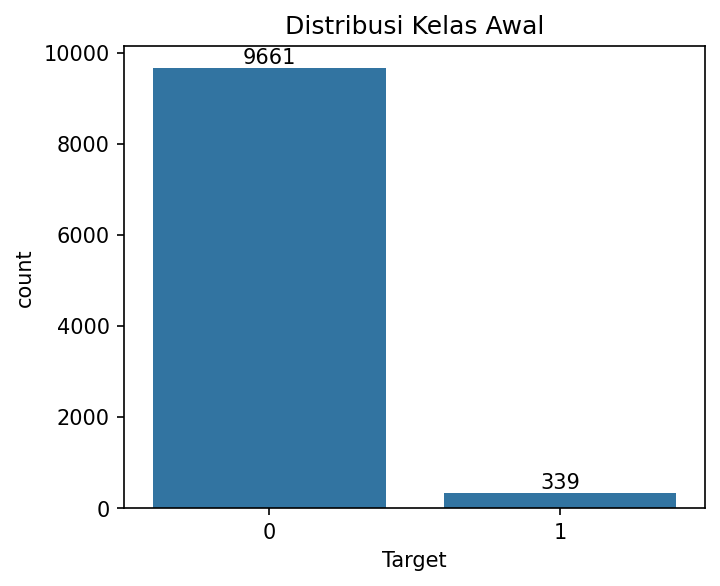
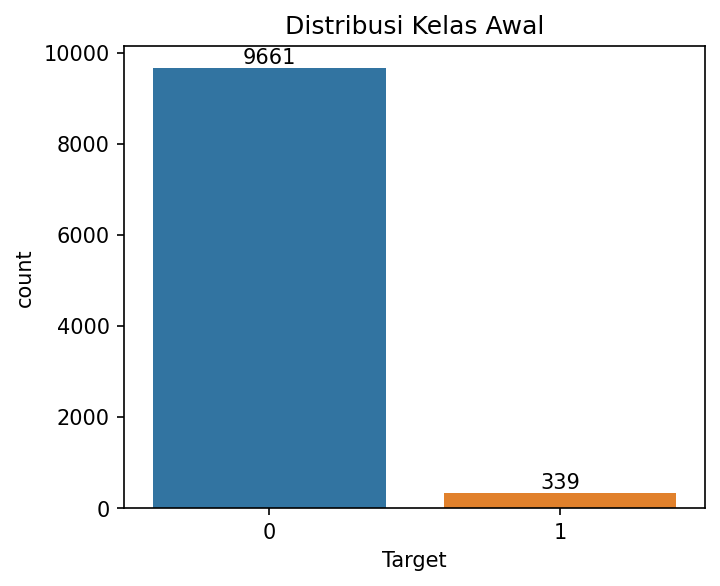
menambahkan oversampling dan evaliasi model

Changed region(s): [[0.6111, 0.8294, 0.9472, 0.8908]]

diff --git a/src/oversampling.py b/src/oversampling.py
@@ -1,0 +1,86 @@
+import pandas as pd
+import matplotlib.pyplot as plt
+import seaborn as sns
+from sklearn.tree import DecisionTreeClassifier
+from sklearn.metrics import (confusion_matrix, ConfusionMatrixDisplay,
+                             accuracy_score, precision_score,
+                             recall_score, f1_score, classification_report)
+# Menggunakan BorderlineSMOTE agar unik dibandingkan SMOTE biasa
+from imblearn.over_sampling import BorderlineSMOTE
+
+def jalankan_eksperimen_oversampling():
+    print("\n" + "=" * 60)
+    print("EKSPERIMEN OVERSAMPLING")
+    print("=" * 60)
+
+    # 1. Load Baseline Data
+    # Mengambil data dari folder output/baseline/ yang sudah disiapkan
+    print("Membaca data baseline training dan testing...")
+    X_train = pd.read_csv("output/baseline/X_train.csv")
+    y_train = pd.read_csv("output/baseline/y_train.csv").squeeze() # squeeze untuk ubah ke Series
+    X_test = pd.read_csv("output/baseline/X_test.csv")
+    y_test = pd.read_csv("output/baseline/y_test.csv").squeeze()
+
+    # 2. Cek Distribusi Kelas Sebelum Resampling
+    print("\nDistribusi kelas Target (Sebelum Oversampling):")
+    print(y_train.value_counts())
+
+    # 3. Terapkan Metode Oversampling
+    # Menggunakan BorderlineSMOTE dengan sampling_strategy=0.5 (minoritas jadi 50% dari mayoritas)
+    print("\nMenerapkan BorderlineSMOTE pada data training...")
+    smote = BorderlineSMOTE(sampling_strategy=0.5, random_state=42)
+    X_train_res, y_train_res = smote.fit_resample(X_train, y_train)
+
+    # 4. Cek Distribusi Kelas Sesudah Resampling
+    print("\nDistribusi kelas Target (Sesudah Oversampling):")
+    print(y_train_res.value_counts())
+
+    # Visualisasi perbandingan distribusi
+    fig, ax = plt.subplots(1, 2, figsize=(10, 4))
+    sns.countplot(x=y_train, ax=ax[0], palette="muted")
+    ax[0].set_title("Sebelum Oversampling")
+    sns.countplot(x=y_train_res, ax=ax[1], palette="muted")
+    ax[1].set_title("Sesudah BorderlineSMOTE")
+    plt.tight_layout()
+    plt.savefig("output/figures/distribusi_oversampling.png", dpi=150)
+    print("-> Grafik distribusi disimpan di output/figures/distribusi_oversampling.png")
+    plt.close()
+
+    # 5. Training Decision Tree
+    # Menggunakan criterion="entropy" sebagai variasi model agar unik
+    print("\nMelatih model Decision Tree dengan data hasil oversampling...")
+    dt = DecisionTreeClassifier(criterion="entropy", random_state=42)
+    dt.fit(X_train_res, y_train_res)
+
+    # 6. Testing dan Evaluasi Model
+    print("\nMelakukan prediksi pada data testing dan evaluasi...")
+    y_pred = dt.predict(X_test)
+
+    # Menghitung 4 Metrik
+    acc = accuracy_score(y_test, y_pred)
+    prec = precision_score(y_test, y_pred)
+    rec = recall_score(y_test, y_pred)
+    f1 = f1_score(y_test, y_pred)
+
+    print(f"Akurasi  : {acc:.4f}")
+    print(f"Presisi  : {prec:.4f}")
+    print(f"Recall   : {rec:.4f}")
+    print(f"F1-Score : {f1:.4f}")
+    
+    print("\nClassification Report:")
+    print(classification_report(y_test, y_pred, target_names=["Normal (0)", "Gagal (1)"]))
+
+    # 7. Membuat dan Menyimpan Confusion Matrix
+    cm = confusion_matrix(y_test, y_pred)
+    disp = ConfusionMatrixDisplay(confusion_matrix=cm, display_labels=["Normal", "Gagal"])
+    disp.plot(cmap="Blues", colorbar=False)
+    plt.title("Confusion Matrix - Oversampling")
+    plt.tight_layout()
+    plt.savefig("output/figures/confusion_matrix.png", dpi=150)
+    print("-> Grafik confusion matrix disimpan di output/figures/confusion_matrix.png")
+    plt.close()
+
+    print("\nEksperimen Oversampling Selesai!\n")
+
+if __name__ == "__main__":
+    jalankan_eksperimen_oversampling()

diff --git a/main.py b/main.py
@@ -2,6 +2,7 @@
 import argparse
 
 from src import init_dataset, preprocessing, transformation, split_data
+from src.oversampling import jalankan_eksperimen_oversampling
 from src.utils import quiet
 
 
@@ -83,6 +84,8 @@ def main(stage: str = "all") -> None:
             "\nBaseline selesai: "
             "X_train, X_test, y_train, y_test siap dipakai."
         )
+
+        jalankan_eksperimen_oversampling()
 
 
 if __name__ == "__main__":
